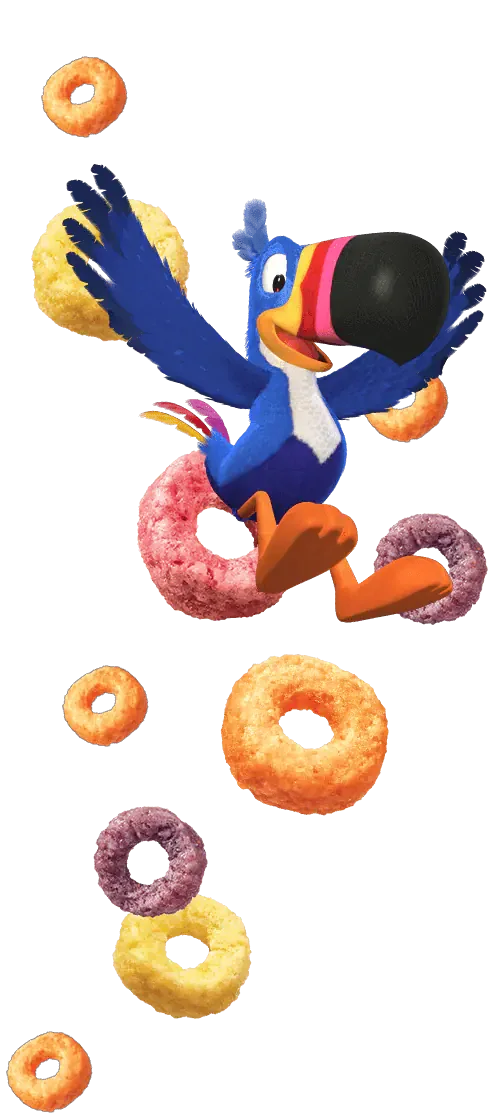
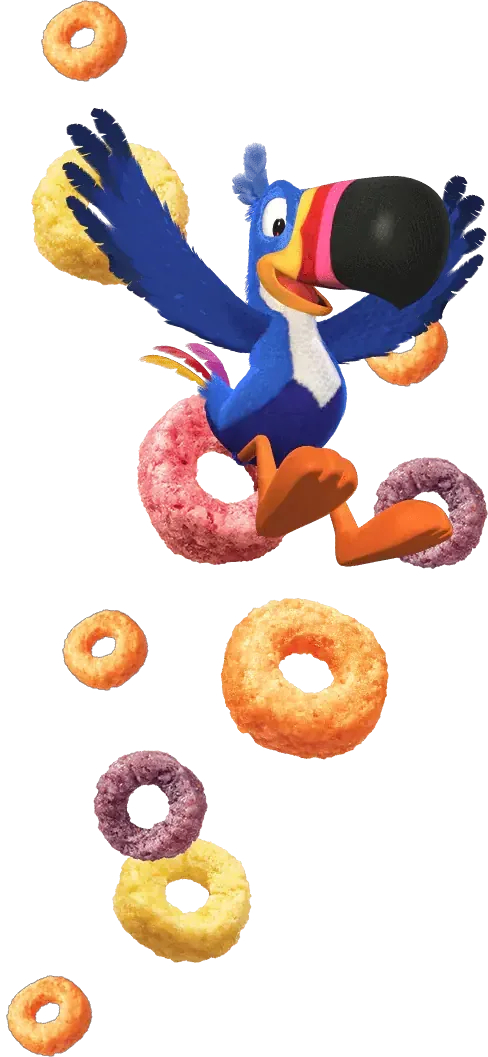
Remove the numbers footnote and pin the toucan to the section's top edge
Claude-Session: https://claude.ai/code/session_01W1BkXUE66oTizoDNizUDTR

diff --git a/follow-your-ears/index.html b/follow-your-ears/index.html
@@ -645,7 +645,7 @@ figcaption b{font-style:normal}
 /* measurement: the toucan fills the frame top to bottom */
 #proof{overflow:hidden}
 @media (min-width:900px){
-  #proof .flyer{top:clamp(16px,2vw,32px);bottom:clamp(16px,2vw,32px);right:var(--gutter);height:calc(100% - clamp(32px,4vw,64px));width:min(36vw,600px);object-fit:contain;object-position:50% 50%;max-height:none}
+  #proof .flyer{top:0;bottom:0;right:var(--gutter);height:100%;width:min(36vw,600px);object-fit:contain;object-position:50% 0;max-height:none}
   #proof .wrap{padding-right:calc(min(36vw,600px) + var(--gutter) * 2)}
 }
 
@@ -672,7 +672,7 @@ figcaption b{font-style:normal}
 /* measurement: the toucan fills the frame top to bottom */
 #proof{overflow:hidden}
 @media (min-width:900px){
-  #proof .flyer{top:clamp(16px,2vw,32px);bottom:clamp(16px,2vw,32px);right:var(--gutter);height:calc(100% - clamp(32px,4vw,64px));width:min(36vw,600px);object-fit:contain;object-position:50% 50%;max-height:none}
+  #proof .flyer{top:0;bottom:0;right:var(--gutter);height:100%;width:min(36vw,600px);object-fit:contain;object-position:50% 0;max-height:none}
   #proof .wrap{padding-right:calc(min(36vw,600px) + var(--gutter) * 2)}
 }
 
@@ -1010,9 +1010,8 @@ figcaption b{font-style:normal}
       <li><i class="ring" data-loop="3"></i><h3>Affinity</h3><p>Participation depth (guesses, scans, follows) over impressions.</p></li>
       <li><i class="ring" data-loop="4"></i><h3>Cultural Credibility</h3><p>Whether artists and fans amplified it unprompted. The real test of “authentic.”</p></li>
     </ul>
-    <p class="note"><b>On the numbers.</b> Public figures on this page come from WK Kellogg Co’s November 10, 2025 release. The 1,000+ count reflects an audit of Lyrics.com that found 1,554 brand mentions across both the “Fruit Loops” and “Froot Loops” spellings, de-duplicated by song. The scorecard above is a framework, not reported results.</p>
   </div>
-  <img class="flyer" src="assets/flyer_crop.webp" alt="" width="488" height="1114" loading="lazy" decoding="async">
+  <img class="flyer" src="assets/flyer_crop.webp" alt="" width="488" height="1057" loading="lazy" decoding="async">
 </section>
 
 <!-- Outro -->
